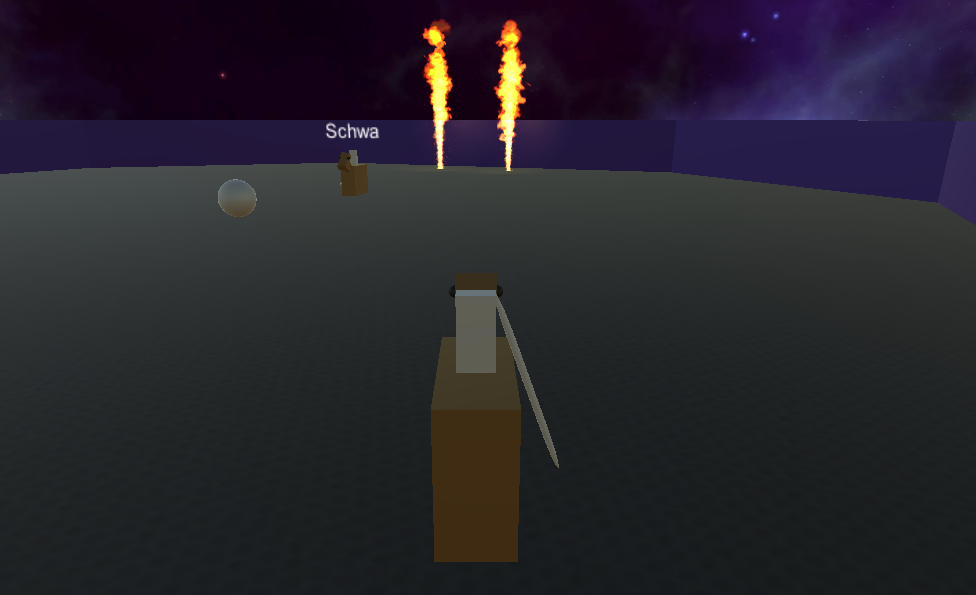
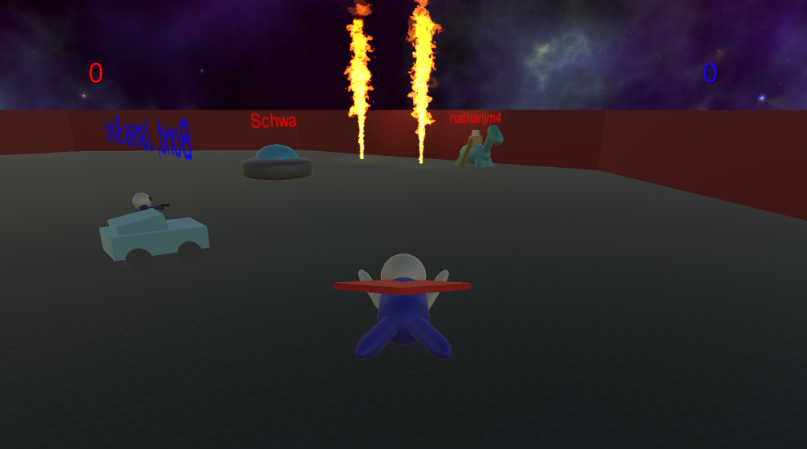
Polo content updates

diff --git a/polo.html b/polo.html
@@ -78,7 +78,36 @@
 			</p>
 
 			<p class="bodyText1">
-				Be a horse-riding club-swinging ball-chasing polo player in our solution to this year's TSA Video Game Design challenge. Join in the glitchy multiplayer fun of batting a ball towards a goal, now with your friends. Choose a name, create or join a game, and score meaningless points!
+				Fight in an arena polo-style to score goals against online opponents in our solution to this year's TSA Video Game Design challenge. Join in the multiplayer fun of batting a ball towards a goal, now with your friends. Choose a name, one of seven characters, create or join a game, and score points to earn coins! Then, unlock new characters in the Shop using those coins to dominate the competition!
+			</p>
+			<br>
+
+			<p class="subtitleText2">
+				Characters
+			</p>
+
+			<p class="bodyText1">
+				<b>Polo Player</b><br>
+				The basic polo player rides a horse and swings a club, and has average stats.<br>
+				Their club attack has a short range and moderate strength.<br>
+				<b>Xtra Terrestrial</b><br>
+				The spaceship character is fast, but is slow to turn and accelerate.<br>
+				When holding down LMB, they activate a tractor beam which slowly pulls the ball towards them.<br>
+				<b>PoloPro3000</b><br>
+				The robot character has average stats.<br>
+				Their attack shoots a lazer projectile, that strongly deflects the ball when hitting it.<br>
+				<b>General Hartmann</b><br>
+				The tank character has a slow speed and turning rate, but powerful fire.<br>
+				Their attack shoots a large slow bullet, that very strongly deflects the ball when hitting it.<br>
+				<b>Oof</b><br>
+				Oof is a dinosaur-riding caveman with a club and average stats.<br>
+				Oof's club-swing is more effective than the generic Polo Player at hitting the ball away.<br>
+				<b>-classified-</b><br>
+				This information has been redacted in the interest of national security.<br>
+				--- --- --- - --------- ---- -- ---- --- ---- ------- ------- ---- -----.<br>
+				<b>Polo Man</b><br>
+				Polo Man is a extremely agile polo-playing superhero.<br>
+				Polo Man can punch the ball with incredible strength.<br>
 			</p>
 			<br>
 
@@ -89,7 +118,7 @@
 			<p class="bodyText1">
 				<ul class="bodyText1List">
 					<li>WAD 			    : Move Player</li>
-					<li>Left Mouse Button   : Shoot</li>
+					<li>Left Mouse Button   : Attack</li>
 				</ul>
 			</p>
 
@@ -97,6 +126,98 @@
 				Changelog
 			</p>
 
+			<p class="bodyText1">
+				Version 0.2.6<br>
+				11/29/2017
+				<br><br>
+				<ul class="bodyText1List">
+					<li>Contain Ball when too High</li>
+					<li>Pop-up in Store for Insuffecient Coins</li>
+					<li>Added -classified- Spy Character</li>
+					<li>Added Polo Man Superhero Character</li>
+					<li>Rewrote Projectile RPC for Increased Code Reusability</li>
+					<li>Changed Projectile Collisions - (ball now moves in same direction as projectile, instead of simply deflecting away from the oncoming projectile)</li>
+					<li>Temporarily Decreased Starting Currency to 300</li>
+					<li>Decreased Costs by 100 coins</li>
+				</ul>
+			</p>
+				<br><br>
+			<p class="bodyText1">
+				Version 0.2.5<br>
+				11/28/2017
+				<br><br>
+				<ul class="bodyText1List">
+					<li>Added Store</li>
+					<li>Added Options</li>
+					<li>Made Quit Button on Title Screen Work</li>
+					<li>Added Back Buttons to Shop, Options, and Room List</li>
+					<li>Added Use of Escape Key to Quit Lobby or Game</li>
+					<li>Added Currency Display in Shop</li>
+					<li>Added Oof Caveman Character</li>
+					<li>Added General Hartmann Tank Character</li>
+					<li>Added Purchasing Characters in Shop</li>
+					<li>Temporarily Increased Starting Currency to 375</li>
+					<li>Made Character Selection Dropdown Dynamic</li>
+					<li>Lowered General Hartmann's Turning Rate</li>
+					<li>Created New Projectile Behavior</li>
+					<li>Changed Shop Scroll from Unrestricted to Elastic</li>
+					<li>Bug Fixes</li>
+				</ul>
+			</p>
+				<br><br>
+			<p class="bodyText1">
+				Version 0.2.3<br>
+				11/27/2017
+				<br><br>
+				<ul class="bodyText1List">
+					<li>Updated All Menus</li>
+					<li>Font Change</li>
+					<li>Added Quit Button</li>
+					<li>Added Robot Lazer Attack</li>
+					<li>Added Spaceship Tractor Beam Attack</li>
+				</ul>
+			</p>
+				<br><br>
+			<p class="bodyText1">
+				Version 0.2.2<br>
+				11/26/2017
+				<br><br>
+				<ul class="bodyText1List">
+					<li>Title Screen</li>
+					<li>Victory Screen</li>
+					<li>Added Score</li>
+					<li>Added HUD with Score</li>
+					<li>Win/Loss at 7 Points</li>
+					<li>Added Coins</li>
+					<li>Removed ESC to Quit</li>
+					<li>Bug Fixes</li>
+					<li>Performance Updates</li>
+					<li>Removed Goal Post Colliders</li>
+					<li>Respawning Ball if Knocked Out</li>
+				</ul>
+			</p>
+				<br><br>
+			<p class="bodyText1">
+				Version 0.2.0
+				<br><br>
+				<ul class="bodyText1List">
+					<li>Lobby Menu</li>
+					<li>Frequent Room and Lobby Refreshing</li>
+					<li>Moved Name Choice to Lobby</li>
+					<li>Added Teams (Blue vs Red)</li>
+					<li>Added Custom Player Property for Team</li>
+					<li>Changing Name Color to Team</li>
+					<li>Multiple Spawn Points</li>
+					<li>Remote Procedure Call for Character Selection</li>
+					<li>Character Selection on Lobby</li>
+					<li>Update Player Stats on Game Start</li>
+					<li>Added Spaceship and Robot Models</li>
+					<li>Added Lists for Character Models and Stats</li>
+					<li>Smooth Ball Movement Using PhotonSerializeView</li>
+					<li>Removed Ball Transform View</li>
+				</ul>
+			</p>
+				<br><br>
 			<p class="bodyText1">
 				Version 0.1.5
 				<br><br>
@@ -118,7 +239,8 @@
 			</p>
 				<br><br>
 			<p class="bodyText1">
-				Version 0.1.0
+				Version 0.1.0<br>
+				10/09/2017
 				<br><br>
 				<ul class="bodyText1List">
 					<li>Added Multiplayer Engine (Photon)</li>
